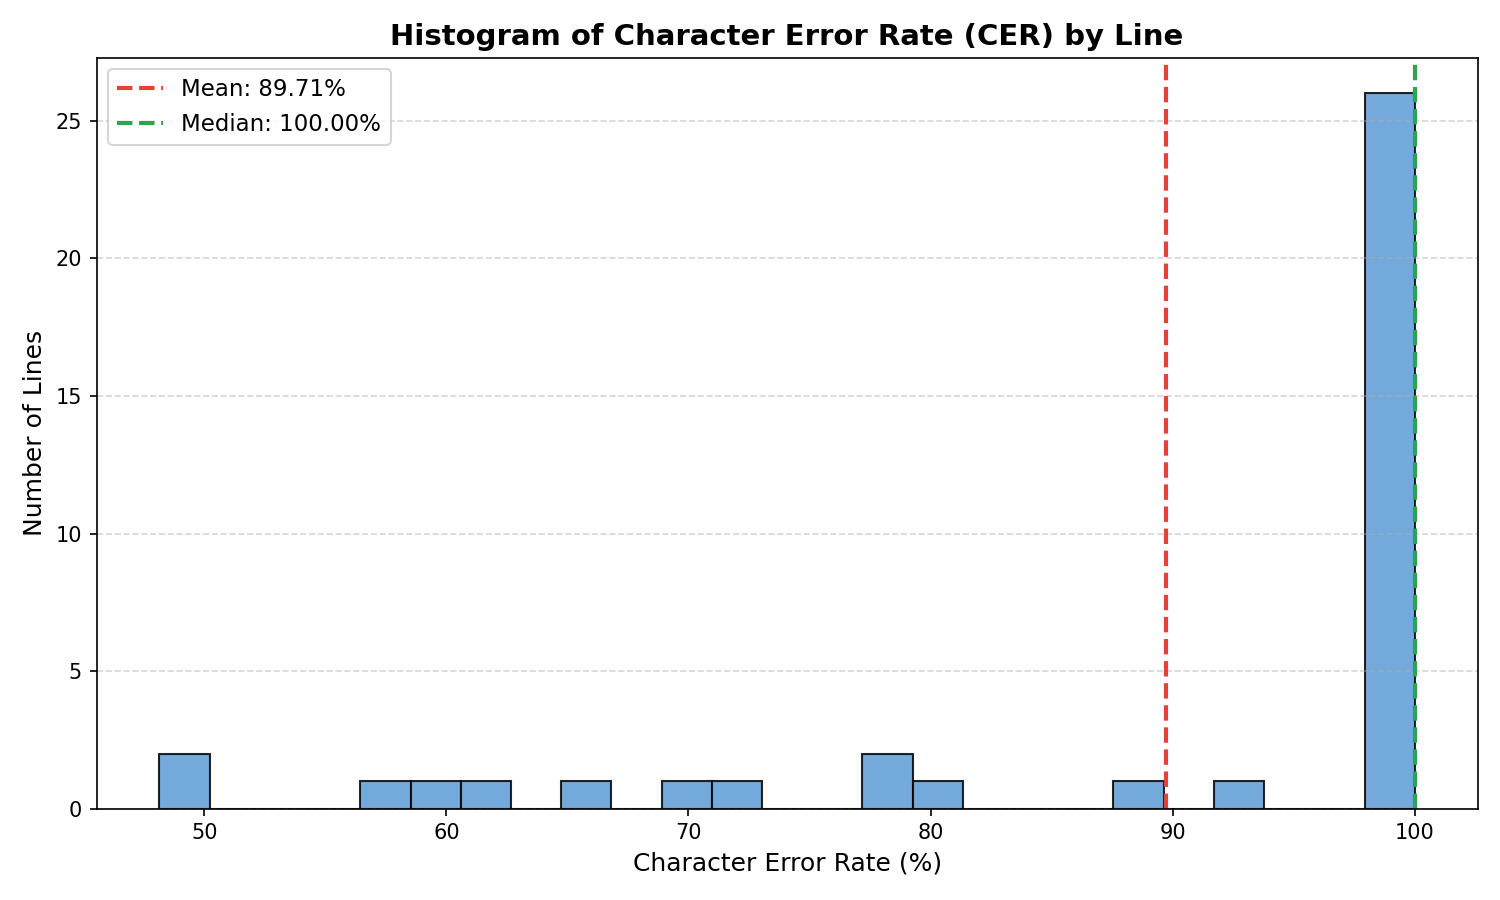
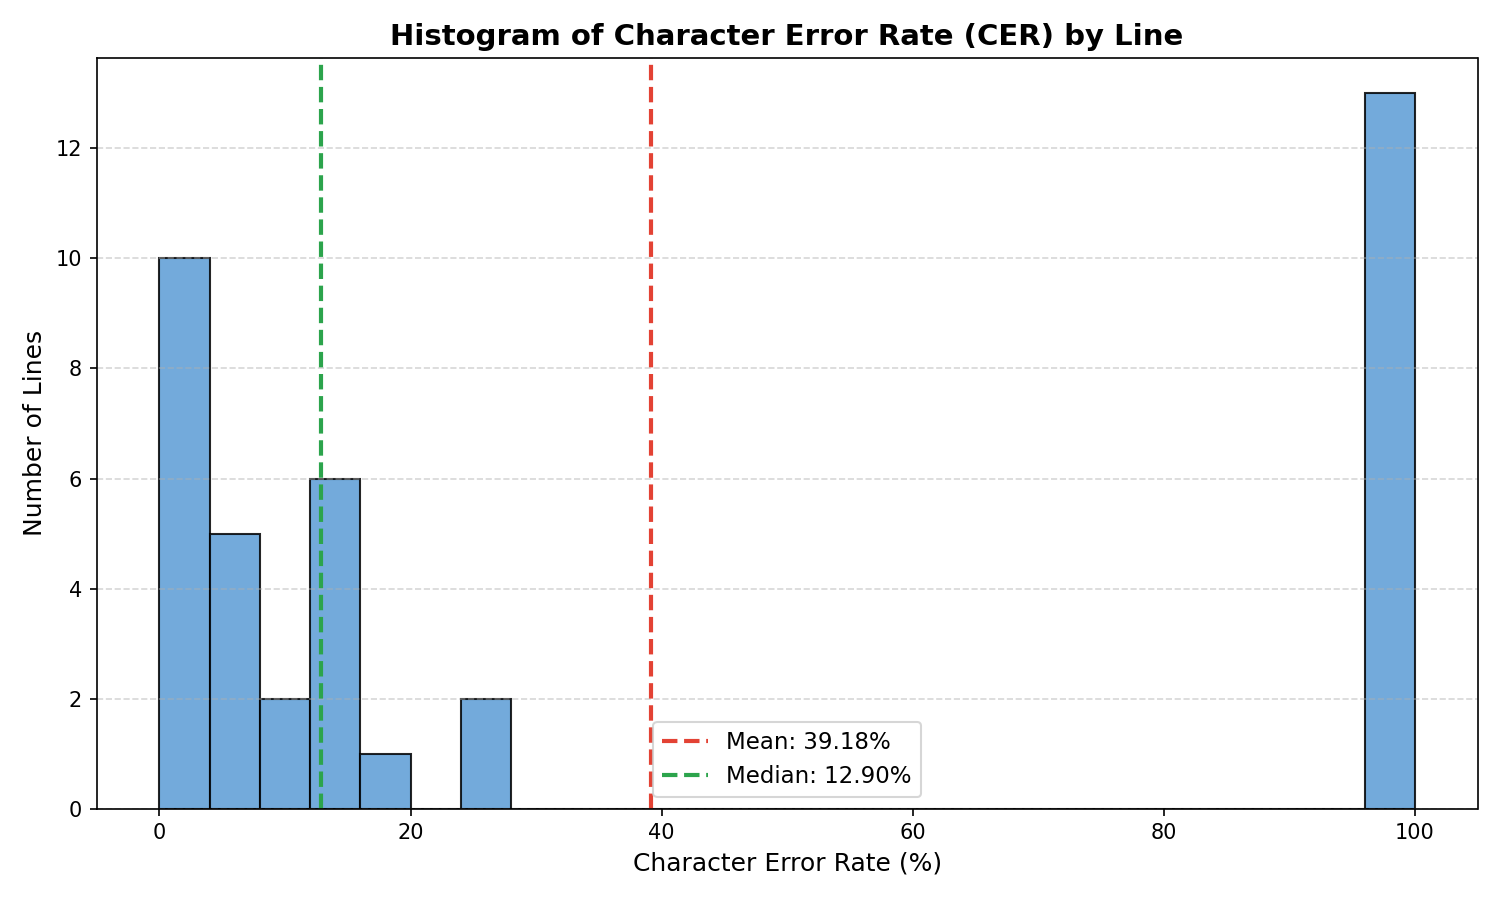
Add Worst Performing Pages card to training labeling interface sidebar

diff --git a/server/templates/training.html b/server/templates/training.html
@@ -548,6 +548,10 @@
             border-color: rgba(148, 163, 184, 0.3);
             color: #94a3b8;
         }
+        .page-pill:hover {
+            border-color: var(--danger-color) !important;
+            background: rgba(239, 68, 68, 0.15) !important;
+        }
     </style>
 </head>
 <body>
@@ -587,6 +591,17 @@
                     <input type="checkbox" id="sort-confidence-checkbox" style="accent-color: var(--primary-color); cursor: pointer;">
                     Sort by lowest confidence
                 </label>
+                <div class="worst-pages-card" style="background: rgba(239, 68, 68, 0.04); border: 1px solid rgba(239, 68, 68, 0.12); border-radius: 8px; padding: 0.65rem; margin-top: 0.75rem;">
+                    <div style="font-size: 0.725rem; font-weight: 800; text-transform: uppercase; letter-spacing: 0.05em; color: #f87171; margin-bottom: 0.5rem; display: flex; align-items: center; gap: 0.25rem;">
+                        <span>⚠️ Worst Performing Pages</span>
+                    </div>
+                    <div style="display: flex; flex-wrap: wrap; gap: 0.35rem;">
+                        <button class="page-pill" data-page="1828-04-17_seq-3" style="background: rgba(0,0,0,0.3); border: 1px solid var(--border-card); color: var(--text-primary); font-size: 0.7rem; padding: 0.2rem 0.45rem; border-radius: 4px; cursor: pointer; transition: all 0.2s;">04-17 seq-3 (53.5%)</button>
+                        <button class="page-pill" data-page="1828-04-17_seq-2" style="background: rgba(0,0,0,0.3); border: 1px solid var(--border-card); color: var(--text-primary); font-size: 0.7rem; padding: 0.2rem 0.45rem; border-radius: 4px; cursor: pointer; transition: all 0.2s;">04-17 seq-2 (51.9%)</button>
+                        <button class="page-pill" data-page="1828-05-21_seq-3" style="background: rgba(0,0,0,0.3); border: 1px solid var(--border-card); color: var(--text-primary); font-size: 0.7rem; padding: 0.2rem 0.45rem; border-radius: 4px; cursor: pointer; transition: all 0.2s;">05-21 seq-3 (51.9%)</button>
+                        <button class="page-pill" data-page="1828-04-17_seq-4" style="background: rgba(0,0,0,0.3); border: 1px solid var(--border-card); color: var(--text-primary); font-size: 0.7rem; padding: 0.2rem 0.45rem; border-radius: 4px; cursor: pointer; transition: all 0.2s;">04-17 seq-4 (33.2%)</button>
+                    </div>
+                </div>
             </div>
             <div class="line-list" id="line-list-container">
                 <!-- Javascript populated -->
@@ -746,6 +761,20 @@
                 filterAndRenderList();
                 
                 // Select first in new list
+                if (filteredItems.length > 0) {
+                    selectItem(0);
+                } else {
+                    clearWorkspace();
+                }
+            });
+        });
+
+        document.querySelectorAll('.page-pill').forEach(btn => {
+            btn.addEventListener('click', () => {
+                const page = btn.dataset.page;
+                searchInput.value = page;
+                searchQuery = page.toLowerCase();
+                filterAndRenderList();
                 if (filteredItems.length > 0) {
                     selectItem(0);
                 } else {